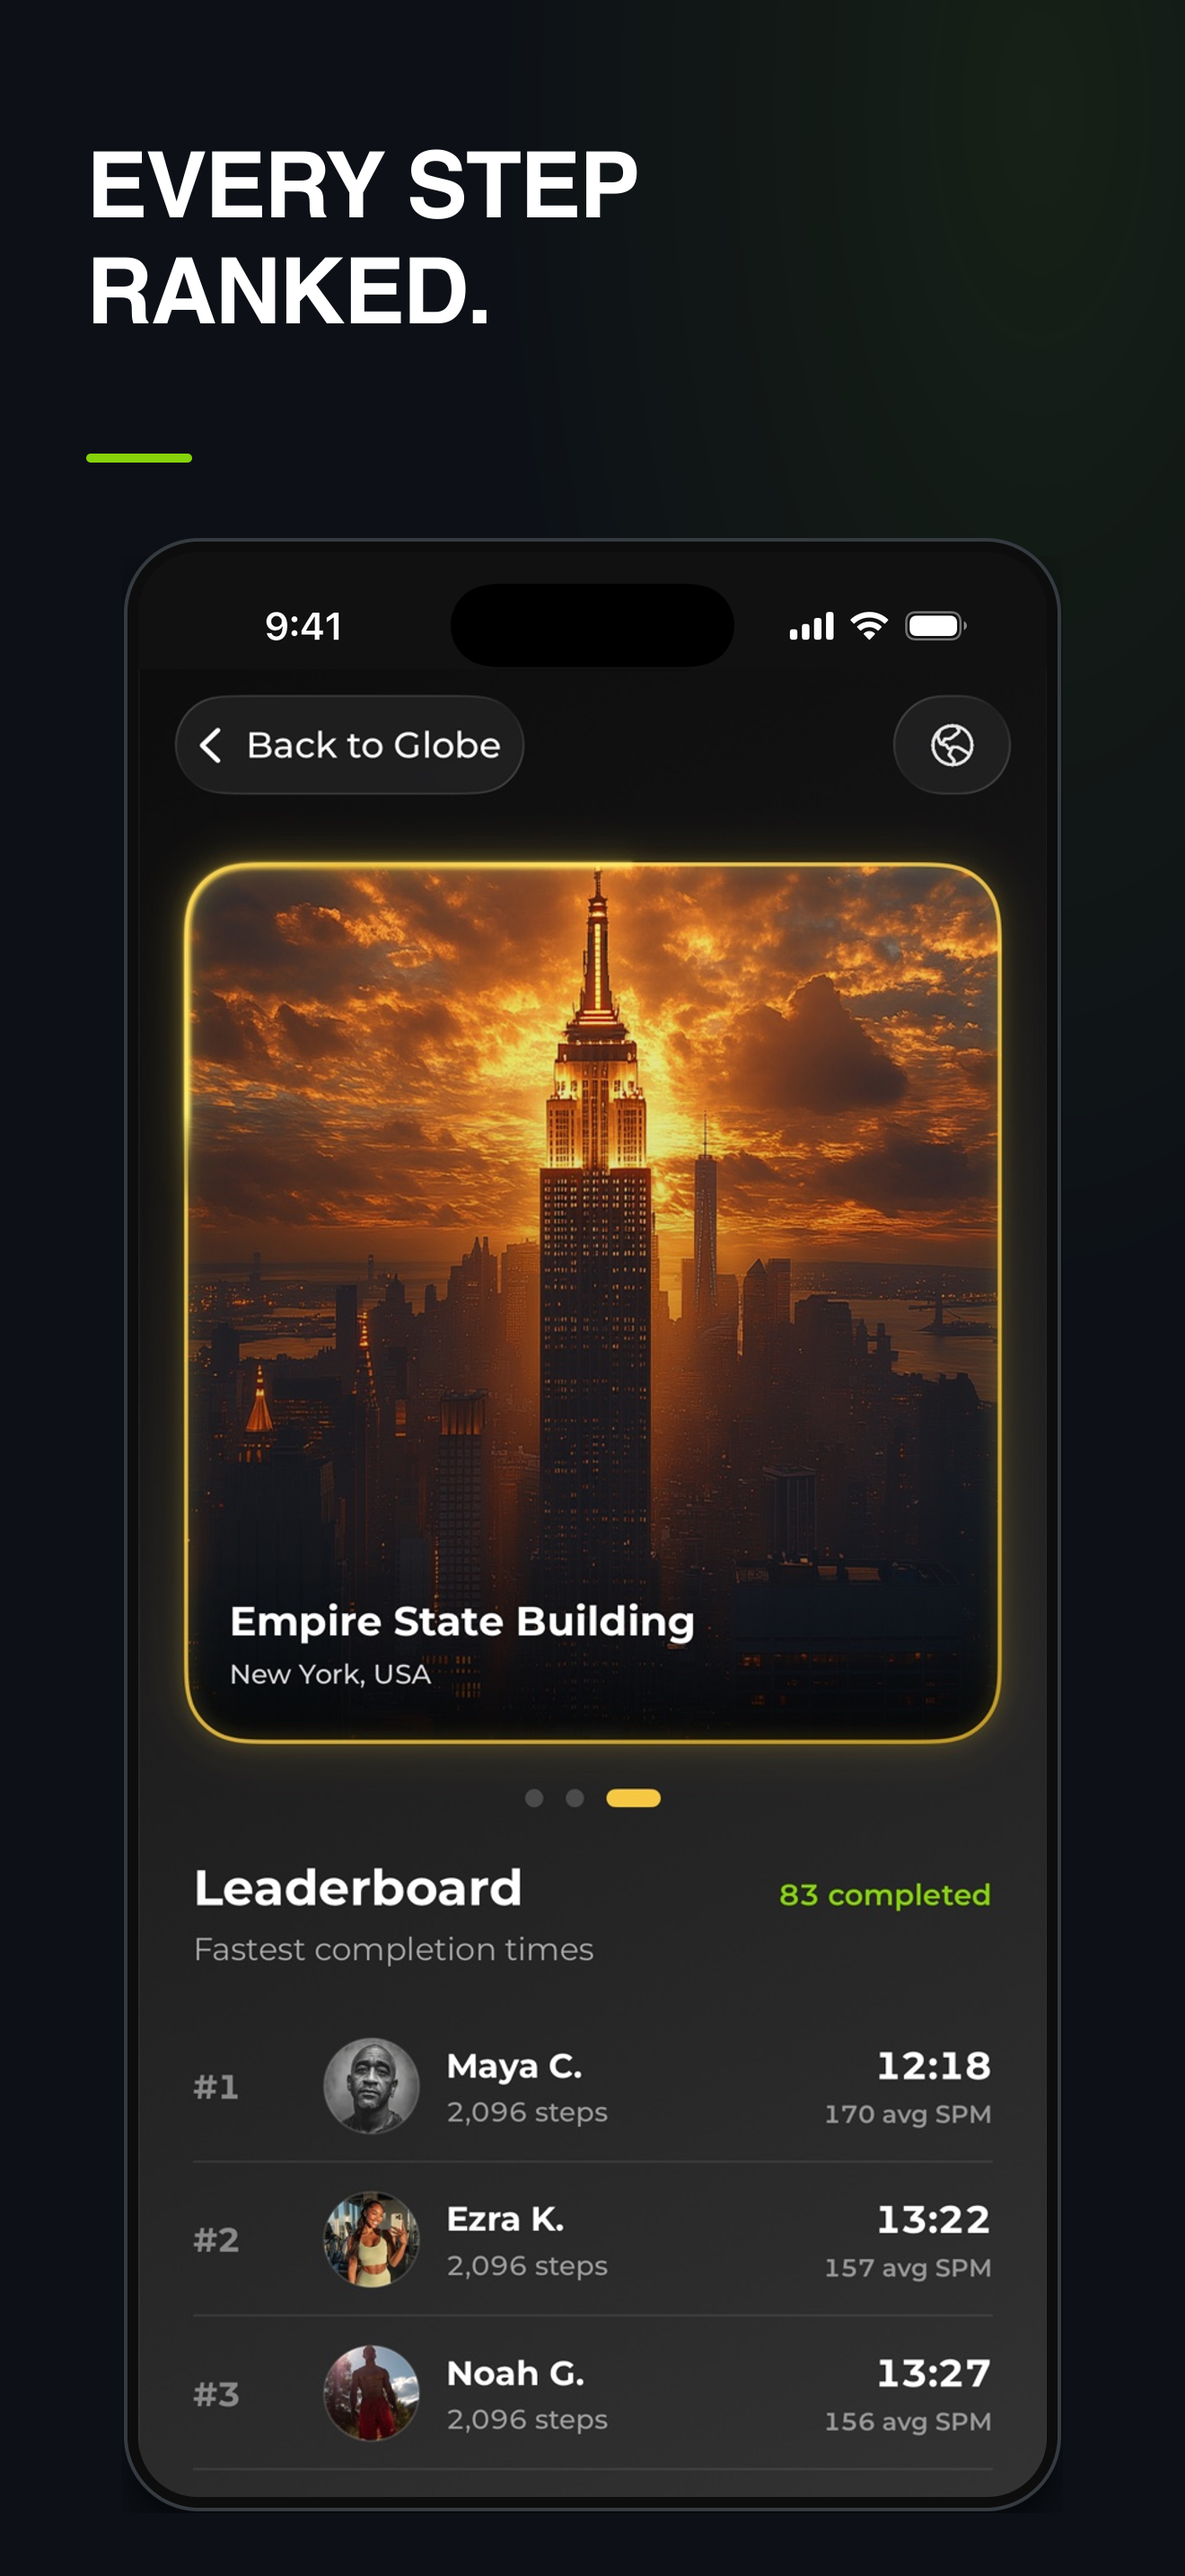
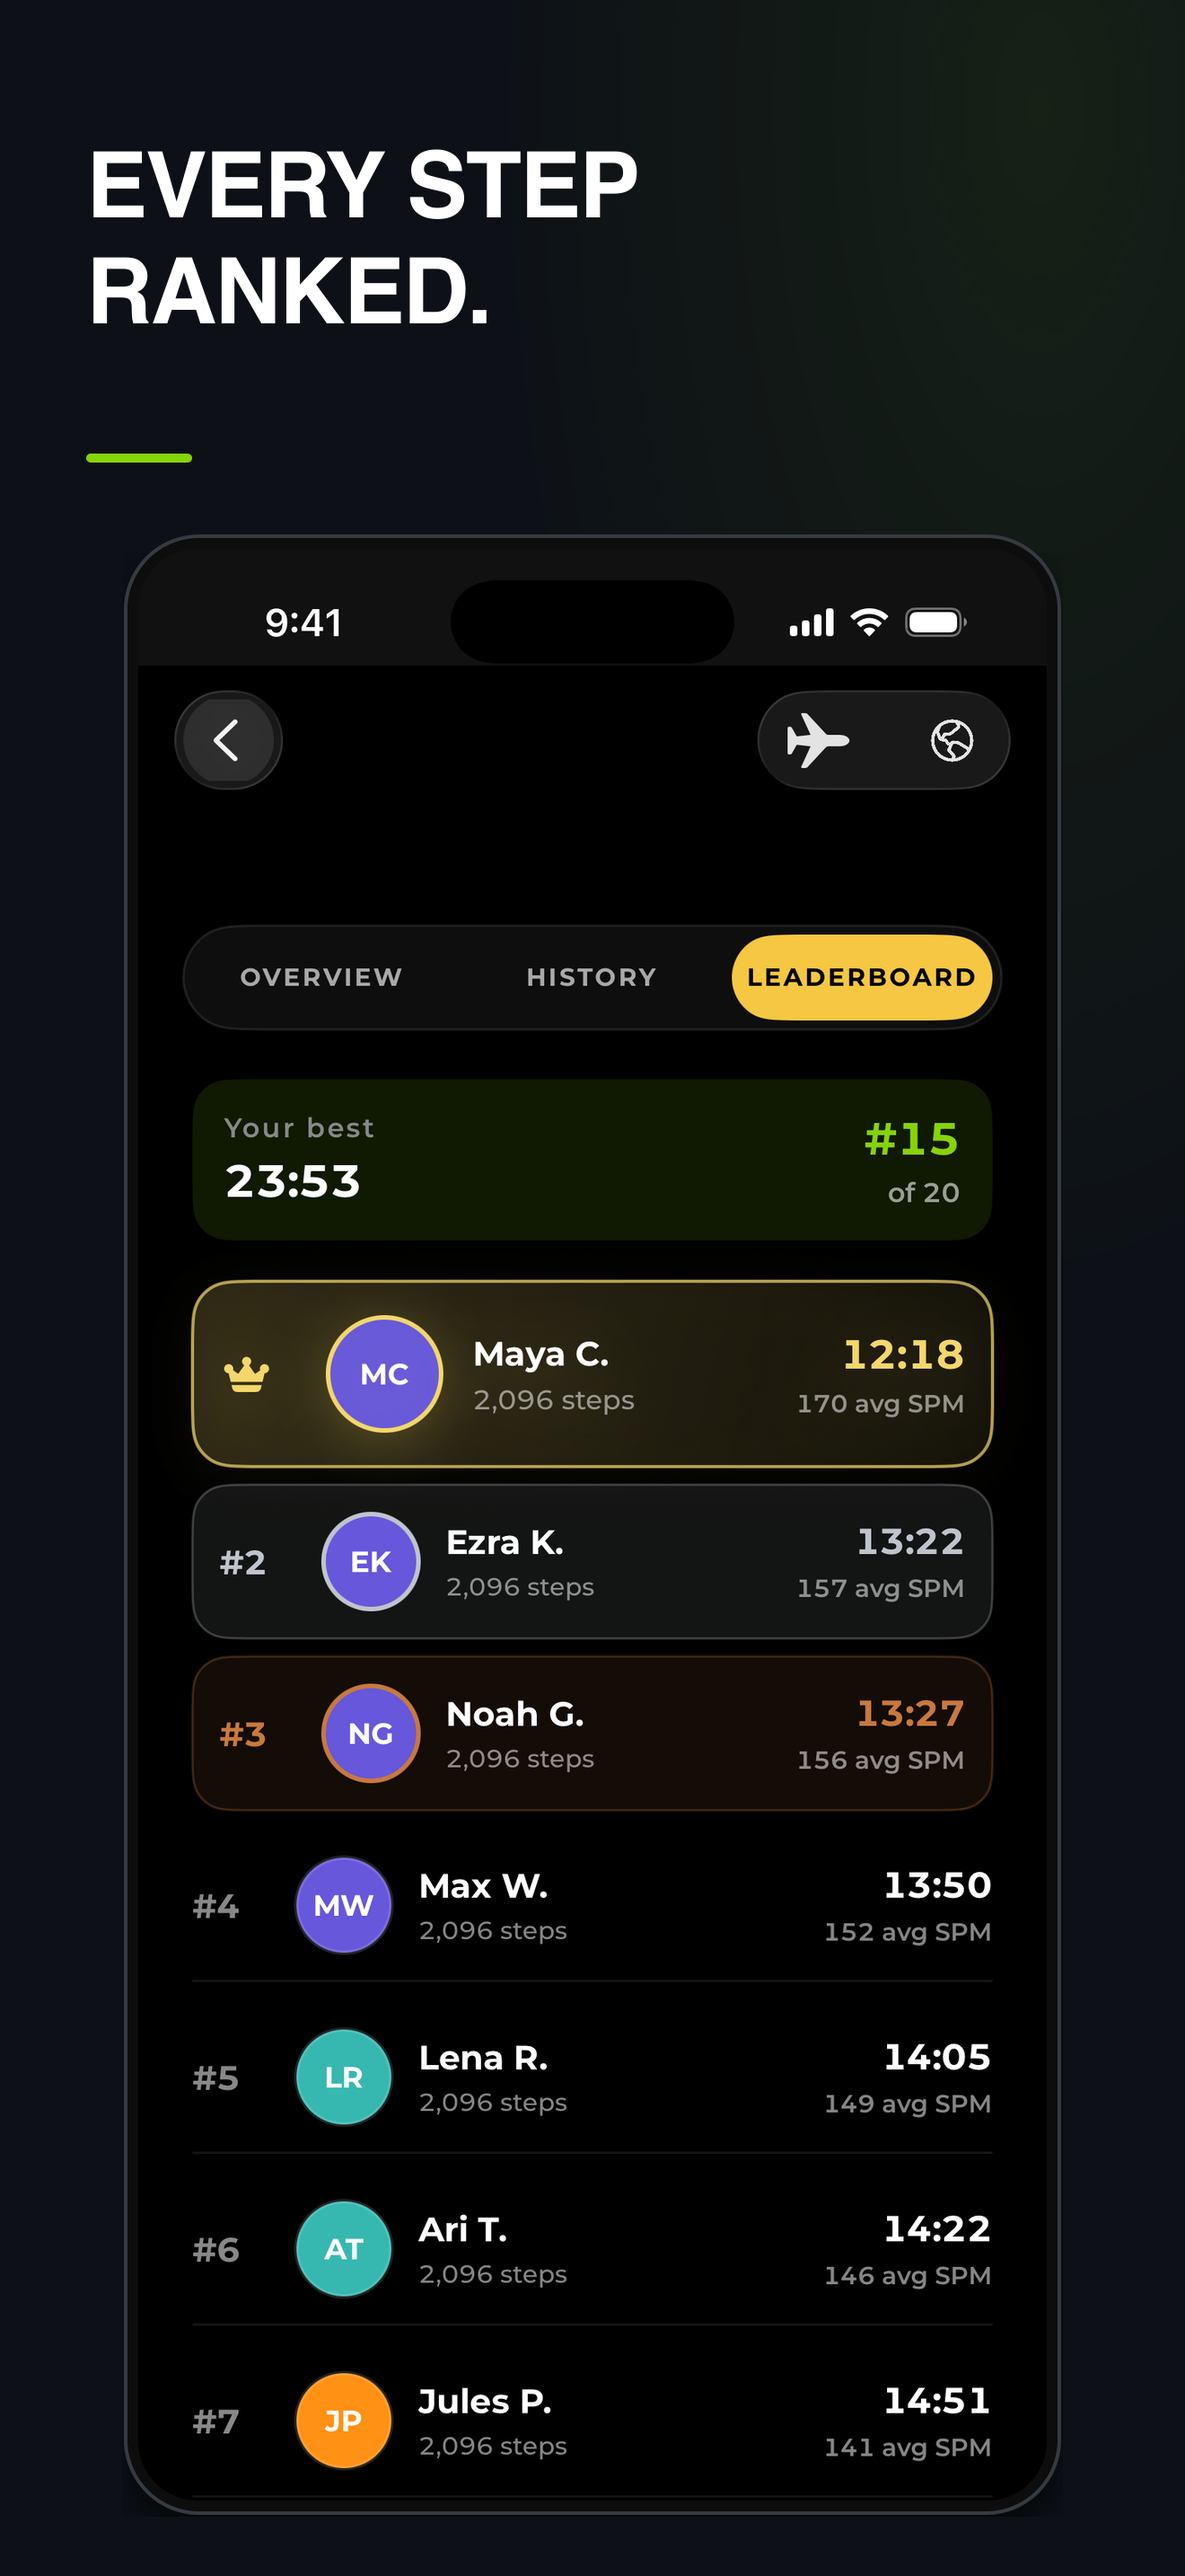
fix: reconcile App Store leaderboard dataset (#282)

diff --git a/AppStoreAssets/qa/review.md b/AppStoreAssets/qa/review.md
@@ -33,7 +33,7 @@ Each screen declares the first capture row clear of that device's own status chr
 | 02 | row 153 | supporting copy, row 2107 | row 2586 | end of capture, row 2622 |
 | 03 | row 93 | Easiest section header, row 1546 | row 1566 | first Easiest card, row 1567 |
 | 04 | row 44 | End attempt control, row 1766 | row 1772 | home indicator, row 1816 |
-| 05 | row 93 | rule under the third leaderboard row, row 1550 | row 1573 | fourth row's avatar, row 1574 |
+| 05 | row 153 | rule under the seventh leaderboard row, row 2581 | row 2588 | end of capture, row 2622 |
 | 06 | row 153 | Skip control, row 2380 | row 2586 | end of capture, row 2622 |
 | 07 | row 170 | chart card's rounded bottom, row 2621 | row 2622 | end of capture, row 2622 |
 
@@ -59,7 +59,7 @@ Each screen declares the first capture row clear of that device's own status chr
 - Screen 02 pairs its Everest headline with an app surface that visibly includes the Everest card and names Mt. Everest in its supporting copy. All six landmark cards are whole.
 - Screen 03 shows the live globe and real landmark catalog, with the Popular header, its See all action, and all three Popular cards complete.
 - Screen 04 shows an in-progress replay leaderboard with the current climber highlighted and the real, enabled End attempt control. Nothing below the list is painted in.
-- Screen 05 shows the per-climb completion leaderboard, its top three finishers complete, and does not use the known-bad split-summary capture.
+- Screen 05 shows the per-climb completion leaderboard, the current user's complete rank summary and its top seven finishers complete, and does not use the known-bad split-summary capture.
 - Screen 06 shows the real First Ascent badge, First Ascent copy, a genuinely enabled notification action, and its complete Skip control.
 - Screen 07 shows a real Best Effort record, its whole laurel wreath, and its progression chart with a complete axis.
 - No disabled primary action appears anywhere in the set.
@@ -68,7 +68,7 @@ Each screen declares the first capture row clear of that device's own status chr
 ## Cross-screen numbers
 
 - Empire State Building is 2,096 steps on screens 01, 03, 04 and 05.
-- Screen 01's "15th out of 20" and screen 05's "83 completed" measure different things and coexist in one dataset. The recap card's denominator is `completedCountAtCompletion`, frozen when that climb was published (`LiveReplayPublishStatus`), while the climb leaderboard shows the count today. Finishing 15th of the 20 who had completed the climb, with 63 finishing since, is one consistent history.
+- Screens 01 and 05 show the same frozen Empire State Building result: 23:53, rank 15, out of 20 finishers.
 - Screen 04's live window ranks the same climber 15th among the replay field, which is the same standing the recap froze.
 - Screen 05's top times check out against the step count: 12:18 at 170 avg SPM, 13:22 at 157, and 13:27 at 156 all resolve to 2,096 steps.
 - Screen 01's 98 SPM is over moving time and 23:53 is elapsed time, which is why the two do not multiply to 2,096.

diff --git a/AppStoreAssets/README.md b/AppStoreAssets/README.md
@@ -28,7 +28,7 @@ Every screen contains genuine Ascend UI, and every pixel inside every phone scre
 | 02 | `real-ui-landmarks.png` - landmark onboarding, including the Everest card |
 | 03 | `real-ui-globe-browse.jpg` - the live globe and climb catalog |
 | 04 | `real-ui-live-attempt-leaderboard.png` - an in-progress replay leaderboard |
-| 05 | `real-ui-climb-leaderboard.jpg` - the per-climb completion leaderboard |
+| 05 | `real-ui-climb-leaderboard-20.png` - the per-climb completion leaderboard, captured at the same 20-finisher state as screen 01 |
 | 06 | `real-ui-first-ascent.png` - the First Ascent notification surface |
 | 07 | `real-ui-best-effort.png` - a Best Effort record and its progression chart |
 
